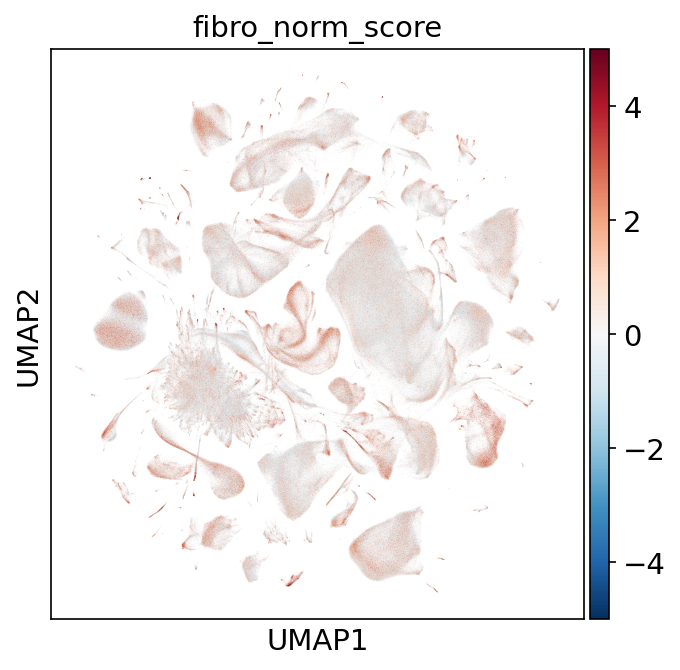
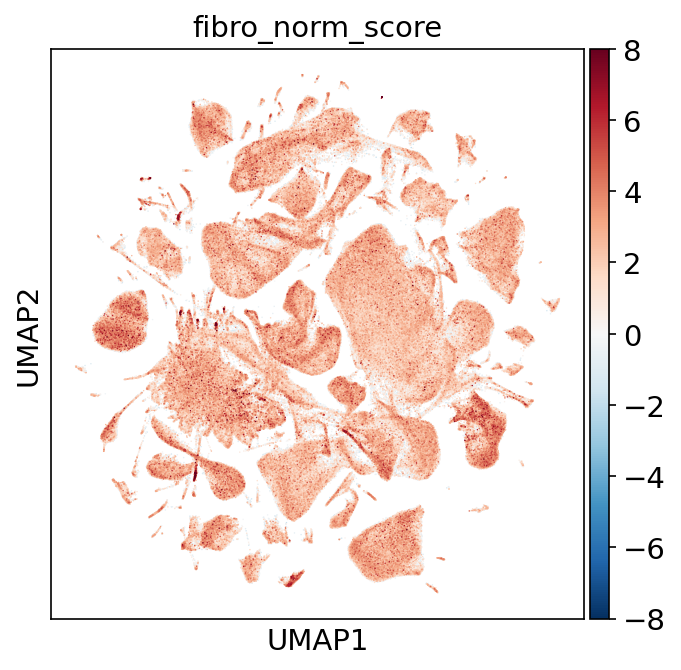
update

diff --git a/run_scdrs.py b/run_scdrs.py
@@ -3,6 +3,7 @@ import scdrs
 import pandas as pd
 import pickle as pkl
 import scanpy as sc
+import numpy as np
 import matplotlib.pyplot as plt
 from utils import run
 
@@ -57,6 +58,7 @@ for name, file in files.items():
                 .squeeze().astype(int)
         }, index=adatas[name].obs.index)
 
+        # To trigger n_chunk logic in scdrs.preprocess
         df_cov_dummy = pd.DataFrame(        
             index=adatas[name].obs.index,
             data={'const': 1})
@@ -119,8 +121,9 @@ for name in files.keys():
         adatas[name],
         color='fibro_norm_score',
         color_map="RdBu_r",
-        vmin=-5,
-        vmax=5,
+        s=2,
+        vmin=-8,
+        vmax=8,
     )
     plt.savefig(
         f'{fig_dir}/{name}_umap_norm_score.png', 
@@ -135,3 +138,15 @@ for name in files.keys():
     )
     plt.close()
 
+for name in files.keys():
+    gene_df = scdrs.method.downstream_gene_analysis(
+        adata=adatas[name],
+        df_full_score=dfs_res[name],
+    )
+    gene_df.to_csv(f'{out_dir}/{name}_gene_df.csv')
+
+
+pd.concat(
+    [dfs_stats['All_Non_Neurons'], dfs_stats['All_Neurons']],
+    axis=0
+).to_csv(f'{out_dir}/all_stats.csv')
